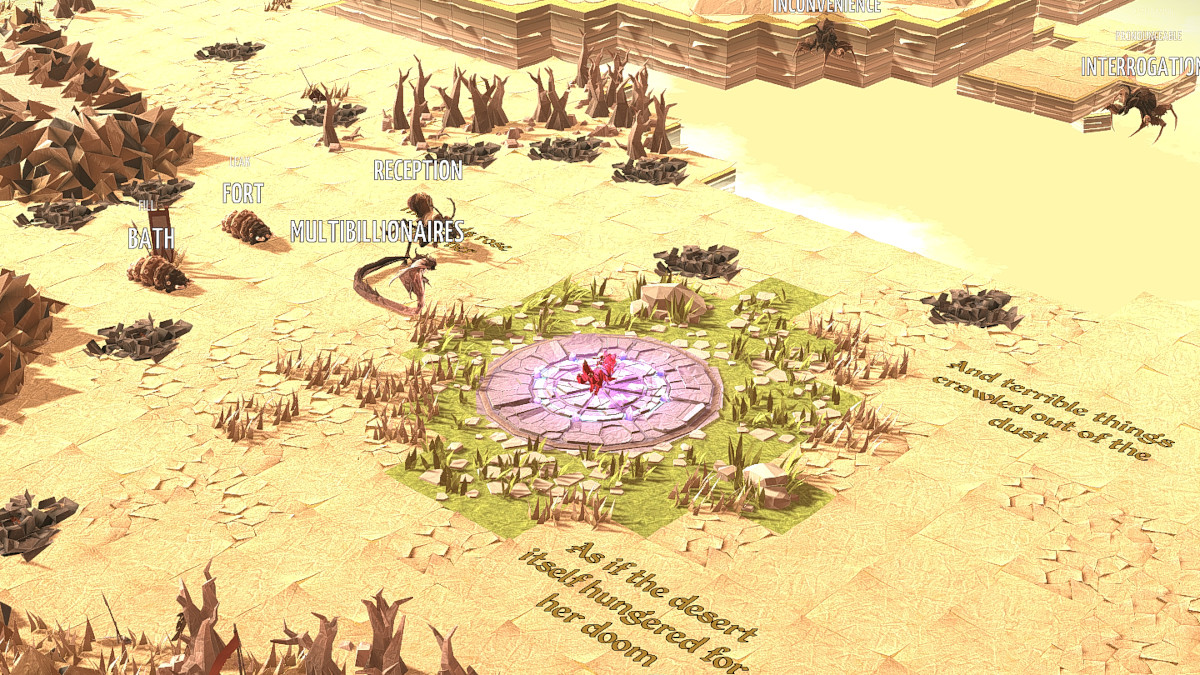
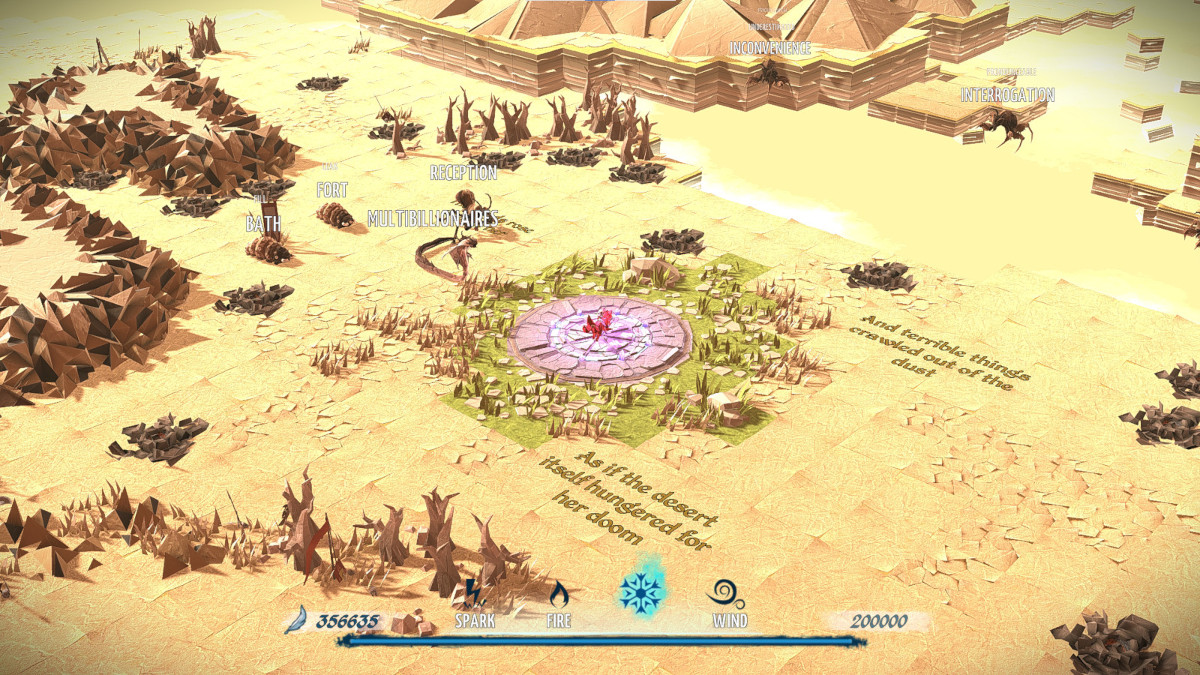
Typing gaming updates
* Added more game images
* Hid some of the Typing Chronicles writeup.

diff --git a/docs/typing-tricks.html b/docs/typing-tricks.html
@@ -7,7 +7,7 @@ title: Other Board Tricks
 <p>
     <a href="https://www.exideas.com/ME/index.php"><b>MessagEase</b></a> is a wonderful touch screen keyboard with large keys, very fast typing and lots(!) of possibilities. For touch screen devices I believe a tap-and-swipe design is superior to the traditional tap-only approach, especially since tapping your fingers repeatedly on a hard surface can be tiring. With the 3×3 large keys of MessagEase you can type fast quite comfortably; I use dual thumbs and have achieved 60 WPM without any auto-correction. In the <a href="https://forum.colemak.com/viewtopic.php?pid=15468#p15468">Colemakoid MessagEase layout topic</a> you can read more about this wonderful touch screen "keyboard" and my preferred settings for it. Highly recommended for your screen devices!
 </p><p>
-    Note though, that since 2024 MessagEase has become subscription-based. I subscribe to it but I understand it if people don't feel like spending money on their keyboard app. If you really want to, it's possible to find an older version of MessagEase, which should be a legal way of using it for free.
+    <b>NOTE:</b> In 2024, MessagEase became subscription-based. I subscribe to it but I understand it if people don't feel like spending money on their keyboard app. If you really want to, it's probably possible to find an older version of MessagEase which should be a legal way of using it for free. Furthermore, no features have been added since we started paying and it's still too bare-bones on Apple products so a worthy replacement might be in order. I just haven't found anything with quite the same rich functionality such as drag-return, circling, macros and composing.
 </p><p>
     My "Colemakoid" MessagEase setup, as described in the Forum topic linked to above, leaves the most common letters (on tap mappings) alone but moves the drag-mapped letters to resemble a Colemak layout. As this means going from predominantly radial drags to more mixed-directional ones, this may not suit everyone. I like to bring a bit of Colemak to my touch screen this way. I don't think it's faster than the default layout, but for a Colemak typist it should be more intuitive and easier to learn. Unfortunately, this kind of layout customization is currently only available for the Android version I believe.
 </p>
@@ -39,38 +39,91 @@ title: Other Board Tricks
     I really enjoy the whimsical-yet-useful experience of playing a good typing game! In this section I'll showcase some of the typing games I've had the most fun with over the years.
 </p>
 
-<h3 class="anchor" id="totd">The Typing of the Dead</h3>
+<h3 class="anchor" id="typing-chronicles">Epic Typing</h3>
 <p>
-    <a href="https://en.wikipedia.org/wiki/The_Typing_of_the_Dead"><b>The Typing of the Dead</b></a> is a weird and wonderful thing: The rail shooter House of the Dead converted into a typing game! Heh. So much fun.
+    <a href="https://store.steampowered.com/app/398850/Epistory__Typing_Chronicles/"><b>Epistory – Typing Chronicles</b></a> is an excellent typing game if you like soft fantasy, and it's set in a beautiful origami world. It also has a similarly polished successor named <a href="https://store.steampowered.com/app/944920/Nanotale__Typing_Chronicles/"><b>Nanotale</b></a>, and the type-runner <a href="https://store.steampowered.com/app/1288410/Outshine/"><b>Outshine</b></a> that has more of a futuristic TRON vibe to it. The three are found together in the <a href="https://store.steampowered.com/bundle/12425/Typing_Journey/"><b>Typing Journey bundle</b></a> if you want them all at a small discount. I liked Epistory so much that I bought the successors as well. All three games offer really well-designed fun and typing galore.
+</p>
+<p>
+    Epistory has you typing words to unlock its beautiful world while riding a three-tailed fox. The world unfolds before you as if it were made out of painted origami, which is a really nice touch. There are also creepy-crawlies to defend yourself against, some found in the wild and many more gathered in nests that you need to conquer; this is where the typing can get intense! In both cases you simply type the words that show up. Sometimes it's a single word or letter, and sometimes there are several words per obstacle.
+</p>
+<br><img alt="Epistory Story - The Lost Desert" src="res/div/TypingGames/Epistory_Lost-Desert_crop.jpg" />
+<p class="img-text">The story literally unfolds as you type, with moods and sights aplenty <br> ... if you can survive this guy to see the next one ...</p>
+<div class="spoiler">
+	<p><span>More details about the Typing Journey:</span></p>
+	<div class="spoiler-body">
+		<h4><a href="https://store.steampowered.com/app/398850/Epistory__Typing_Chronicles/">Epistory</a></h4>
+		<p>
+			The story mode of Epistory is so beautiful and fun to play that I've replayed it several times. 
+			There's also an Arena mode that works as a gamified typing test. It gets intense and challenging, if you like that.
+		</p><br><img alt="Epistory Arena - Forest" src="res/div/TypingGames/Epistory-Arena_LongWords-Forest.jpg" />
+		<p class="img-text">Epistory has moody and interesting scenery like the Forest,<br>and some long words to type here and there!</p>
+		<p>
+			A quirky and fun game mechanic is the four different types of magic you can use. If you type 'ice' your words will freeze monsters to buy you time. Fire magic burns away the next word of the monster, which can be a huge help when there are lots of two-word monsters approaching! There's also wind and spark magic, which I'll let you discover for yourself. Some monsters and obstacles require a specific type of magic.
+		</p><br><img alt="Epistory Arena - Island" src="res/div/TypingGames/Epistory-Arena_Busy-Island.jpg" />
+		<p class="img-text">A busy moment on the Island arena gets the combo meter going.<br>Note the fire-only monster near the top.</p>
+		<p>
+			All menu options can be typed and movement is done with home-position keys so you don't have to mouse at all while playing – that's pleasant. If you're overwhelmed at any point, you won't lose lives but respawn without any punishment to try again. As an around 80 WPM typist, I mastered the top difficulty (Insane) so on my second run-through I set that instead of using the adaptive difficulty setting. Both gave about the same result, I think.
+		</p><br><img alt="Epistory Arena - Labyrinth" src="res/div/TypingGames/Epistory-Arena_LongWords-Ice.jpg" />
+		<p class="img-text">More long word encounters in the icy Labyrinth arena.</p>
+		<br>
+		<h4><a href="https://store.steampowered.com/app/944920/Nanotale__Typing_Chronicles/">Nanotale</a></h4>
+		<p>
+			Nanotale is even more polished, immersive and epic than Epistory. There's a lot more to learn and interact with in more complex ways.
+		</p><br><img alt="Nanotale - learning a spell" src="res/div/TypingGames/Nanotale_1.jpg" />
+		<p class="img-text">You can combo spells, focused on crystals. Give those sheep a good Large Push!</p>
+		<p>
+			This installment takes the spell type mechanic a step further, making you solve interesting puzzles with your different types of magic.
+		</p><br><img alt="Nanotale - spell variety" src="res/div/TypingGames/Nanotale_2.jpg" />
+		<p class="img-text">You can also jump to these crystal foci. Find your way in the lush underground caves.</p>
+		<p>
+			I loved how epic and lush this game is. 
+			And yet, I've played through Epistory more times precisely because it's simpler and therefore more typing focused.
+		</p><br><img alt="Nanotale - epic moment" src="res/div/TypingGames/Nanotale_3.jpg" />
+		<p class="img-text">Spend a quiet moment hanging out with a defeated foe.</p>
+		<br>
+		<h4><a href="https://store.steampowered.com/app/1288410/Outshine/">Outshine</a></h4>
+		<p>
+			Outshine feels very different from the others. It's a level-oriented dodge-and-run game with a futuristic techno vibe. 
+			And yet, it has a backstory that unfolds as you finish levels. It's a really good and visually pleasing game.
+		</p><br><img alt="" src="res/div/TypingGames/Outshine.jpg" />
+		<p class="img-text">.</p>
+	</div>
+</div>
+
+<h3 class="anchor" id="totd">Horror Typing</h3>
+<p>
+    <a href="https://en.wikipedia.org/wiki/The_Typing_of_the_Dead"><b>The Typing of the Dead</b></a> is a weird and wonderful thing: 
+    The 1998 SEGA rail shooter arcade game <a href="https://en.wikipedia.org/wiki/The_House_of_the_Dead_2">House of the Dead 2</a> and 
+    its 2009 successor <a href="https://en.wikipedia.org/wiki/The_House_of_the_Dead:_Overkill">Overkill</a> converted into typing games! Heh. So much fun.
 </p><p>
     The conversion is quite faithful, but with extra silly elements added – particularly in the first game. Zombies will often throw or wield kitchen utensils instead of knives and axes, and the main characters have their guns replaced with a SEGA Dreamcast console with a huge dry-cell battery strapped on their back as well as a SEGA keyboard before them.
 </p><p>
-    The original is still lying about and considered abandonware, so if you're interested you may give it a spin of the barrel. The original's drills can be downright handy for practising a particular aspect of your typing. There are exercises focused on typing speed, accuracy, reaction and special keys. There's even a typing tutorial (QWERTY-based but still useful).
+    The original is still lying about and considered abandonware, so if you're interested you may give it a spin of the barrel. 
+    The original's drills can be downright handy for practising a particular aspect of your typing. There are exercises focused on typing speed, accuracy, reaction and special keys. 
+    There's even a typing tutorial (QWERTY-based but still quite useful).
 </p>
 <br><img alt="TTotD 1 Tower" src="res/div/TypingGames/TTotD-1_Tower.jpg" />
 <p class="img-text">In <b>The Typing of the Dead</b>, you'll meet various challenges such as the Tower boss. Type in the right answer to defeat it.</p>
 
 <p>
-    The second installment, <b>Typing of the Dead: Overkill</b> is available on Steam, optionally bundled with several add-on dictionaries. It has more shine, but only three extra minigame modes. And I have a feeling that it's managed the nigh-impossible task of being even cheesier than the original. Beware!
+    The second installment, <a href="http://store.steampowered.com/app/246580/"><b>The Typing of the Dead: Overkill</b> is available on Steam, optionally bundled with several add-on dictionaries. It has more shine, but only three extra minigame modes. 
+    And I have a feeling that it's managed the nigh-impossible task of being even cheesier than the original. Beware!
 </p>
 <br><img alt="TTotD Overkill Shakespeare" src="res/div/TypingGames/TTotD-Overkill_Shakespeare.jpg" />
 <p class="img-text"><b>The Typing of the Dead: Overkill</b> has hi-res sound & graphics, and custom dictionaries such as this Shakespeare one!</p>
 
 <p>
     For the record: I like both. The original is what I've gone to for basic typing training, though. And the second one is sometimes a little too hard for casual play – but well worth it!
-</p><p>
-    More info and downloads through these links:
-</p><p>
-    <a href="https://www.myabandonware.com/game/the-typing-of-the-dead-bee"><b>The Typing of the Dead 2000</b></a> (Windows version for free on MyAbandonware)
-    <a href="http://store.steampowered.com/app/246580/"><b>The Typing of the Dead: Overkill</b></a> (Steam)
 </p>
-<div class="spoiler">
-    <p><span>Technical tips for Typing of the Dead:</span></p>
+<br><div class="spoiler">
+    <p><span>More TotD info and downloads:</span></p>
     <div class="spoiler-body">
         <h4>TotD 2000</h4>
         <ul class="disc">
             <li>
-                After unpacking the .rar file there's an install.exe and then a setup.bat you should run.
+                See MyAbandonware's <a href="https://www.myabandonware.com/game/the-typing-of-the-dead-bee"><b>The Typing of the Dead 2000</b></a> page (free Windows version).
+            </li><li>
+                After unpacking the .rar file there's an install.exe and then a setup.bat you should run to unpack sounds.
             </li><li>
                 I've gotten it to run on an extended monitor, without changing color depth (on Win 10). If you have a second monitor and want to play on your main one, disable the other one.
             </li><li>
@@ -88,6 +141,8 @@ title: Other Board Tricks
         <h4>TotD: Overkill</h4>
         <ul class="disc">
             <li>
+                See Steam's <a href="http://store.steampowered.com/app/246580/"><b>The Typing of the Dead: Overkill</b></a> page.
+            </li><li>
                 On my aging Lenovo laptop, the game simply wouldn't run: It'd barely start before crashing to the desktop.
             </li><li>
                 Luckily, in the Steam Community I found <a href="https://steamcommunity.com/sharedfiles/filedetails/?id=1253363039">a helpful article on resolving the issue</a>.
@@ -102,38 +157,15 @@ title: Other Board Tricks
                 Now enter the command 'mklink HOTD_NG.exe HOTD_NG-safemode.exe' to make the file system see the safemode file as the normal one.<br>
                 [Nope, that didn't work with Steam. Not a symlink, nor a hardlink.]
             </li -->
+        </ul><br>
+        <br><img alt="TTotD 1 Tower" src="res/div/TypingGames/TTotD-1_Sentences.jpg" /><br>
     </div>
 </div>
 <p>
 
-<h3 class="anchor" id="typing-chronicles">Typing Chronicles</h3>
-<p>
-    <a href="https://store.steampowered.com/app/398850/Epistory__Typing_Chronicles/"><b>Epistory – Typing Chronicles</b></a> is an excellent typing game if you like soft fantasy, and it's set in a beautiful origami world. It also has a similarly polished successor named <a href="https://store.steampowered.com/app/944920/Nanotale__Typing_Chronicles/"><b>Nanotale</b></a>, and the type-runner <a href="https://store.steampowered.com/app/1288410/Outshine/"><b>Outshine</b></a> that has more of a futuristic TRON vibe to it. The three are found together in the <a href="https://store.steampowered.com/bundle/12425/Typing_Journey/"><b>Typing Journey bundle</b></a> if you want them all at a small discount. I've played through Epistory several times, and liked it so much that I bought the successors as well. The other two also seem like well-designed good fun, so far.
-</p>
-<br><img alt="Epistory Arena - Forest" src="res/div/TypingGames/Epistory_LongWords-Forest.jpg" />
-<p class="img-text">Epistory has moody and interesting scenery like the Forest,<br>and some long words to type here and there!</p>
-
-<p>
-    Epistory has you typing words to unlock its beautiful world while riding a three-tailed fox. The world literally unfolds as if it were made out of painted origami, which is a really nice touch. There are also creepy-crawlies to defend yourself against, some found in the wild and many more gathered in nests that you need to conquer; this is where the typing can get intense! In both cases you simply type the words that show up. Sometimes it's a single word or letter, and sometimes there are several words per obstacle.
-</p>
-<br><img alt="Epistory Story - The Lost Desert" src="res/div/TypingGames/Epistory_Lost-Desert.jpg" />
-<p class="img-text">The story literally unfolds as you type, with moods and sights aplenty <br> ... if you can survive this guy to see the next one ...</p>
-
-<p>
-    A quirky and fun game mechanic is the four different types of magic you can use. If you type 'ice' your words will freeze monsters to buy you time. Fire magic burns away the next word of the monster, which can be a huge help when there are lots of two-word monsters approaching! There's also wind and spark magic, which I'll let you discover for yourself. Some monsters and obstacles require a specific type of magic.
-</p>
-<br><img alt="Epistory Arena - Island" src="res/div/TypingGames/Epistory_Busy-Island.jpg" />
-<p class="img-text">A busy moment on the Island gets the combo meter going.<br>Note the fire-only monster near the top.</p>
-
-<p>
-    All menu options can be typed and movement is done with home-position keys so you don't have to mouse at all while playing – that's pleasant. If you're overwhelmed at any point, you won't lose lives but respawn without any punishment to try again. As an around 80 WPM typist, I mastered the top difficulty (Insane) so on my second run-through I set that instead of using the adaptive difficulty setting. Both gave about the same result, I think. There's also an Arena mode that works as a gamified typing test.
-</p>
-<br><img alt="Epistory Arena - Labyrinth" src="res/div/TypingGames/Epistory_LongWords-Ice.jpg" />
-<p class="img-text">More long word encounters in the icy Labyrinth arena.</p>
-
 <h3 class="anchor" id="other-typing-games">Other Typing Games</h3>
 <p>
-    There are several other <a=href"https://store.steampowered.com/tags/en/Typing/">typing games and other programs on Steam</a> and around the internet in general, so do snoop around!
+    There are several other <a href="https://store.steampowered.com/category/typing/">typing games and other programs on Steam</a> and around the internet in general, so do snoop around!
 </p><p>
     <a href="https://store.steampowered.com/app/3450/Typer_Shark_Deluxe/"><b>Typer Shark Deluxe</b></a> is a fun game I used to play a lot. You type increasingly difficult words to zap sharks that are out to get you.
 </p><p>
